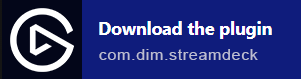
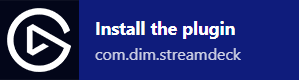
add media, update readme

Changed region(s): [[0.0, 0.0, 0.9331, 1.0], [0.8428, 0.2532, 0.8729, 0.3038]]

diff --git a/README.md b/README.md
@@ -4,7 +4,11 @@ A Stream Deck plugin to interact with Destiny Item Manager and Destiny 2
 
 ## Installation
 
-Download the stream-deck plugin from the [releases](https://github.com/fcannizzaro/com.dim.streamdeck/releases/latest)
+Install the browser extension
+
+[![download](https://github.com/fcannizzaro/com.dim.streamdeck/blob/main/media/extension.png?raw=true)](https://chrome.google.com/webstore/detail/odiiafbigbkmleijfhjgidbiefjolcmg)
+
+and then download the stream-deck plugin from the [releases](https://github.com/fcannizzaro/com.dim.streamdeck/releases/latest)
 or from below:
 
 [![download](https://github.com/fcannizzaro/com.dim.streamdeck/blob/main/media/download.png?raw=true)](https://github.com/fcannizzaro/com.dim.streamdeck/releases/download/1.0.0/com.dim.streamdeck.streamDeckPlugin)
